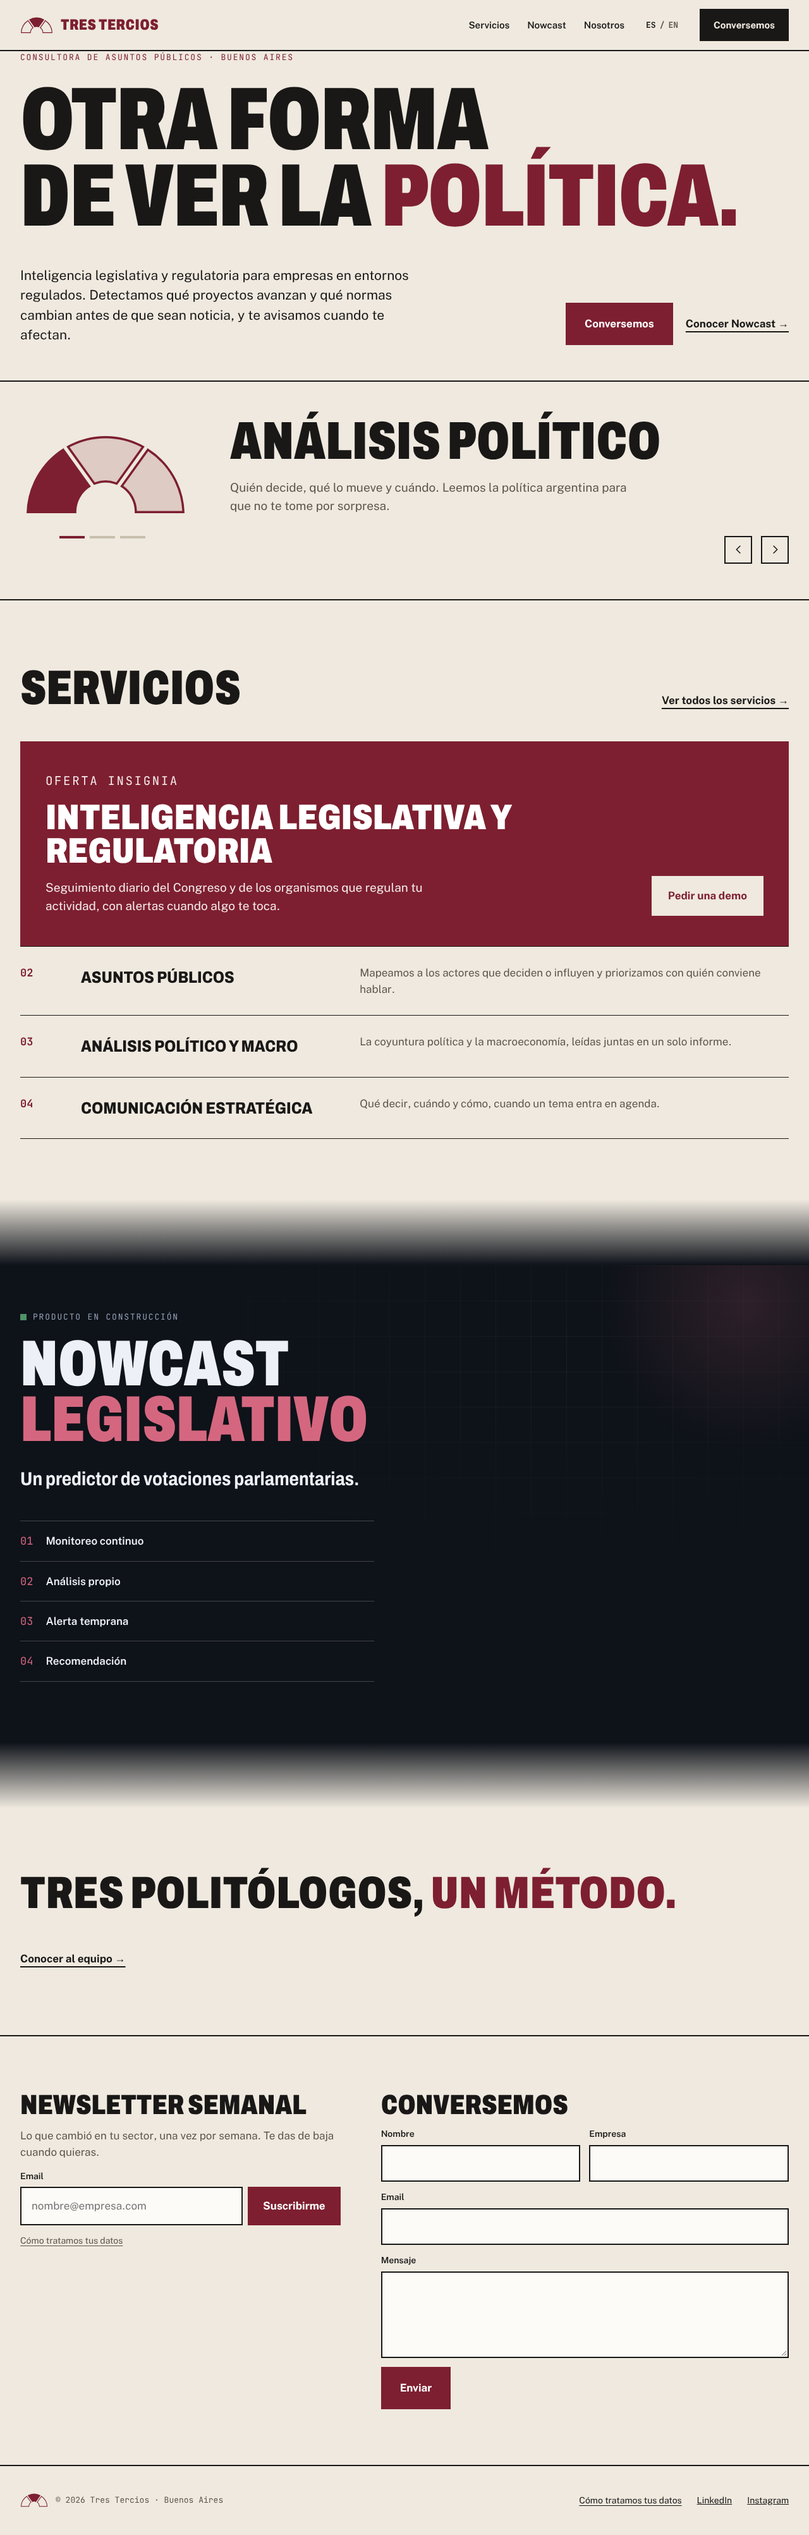
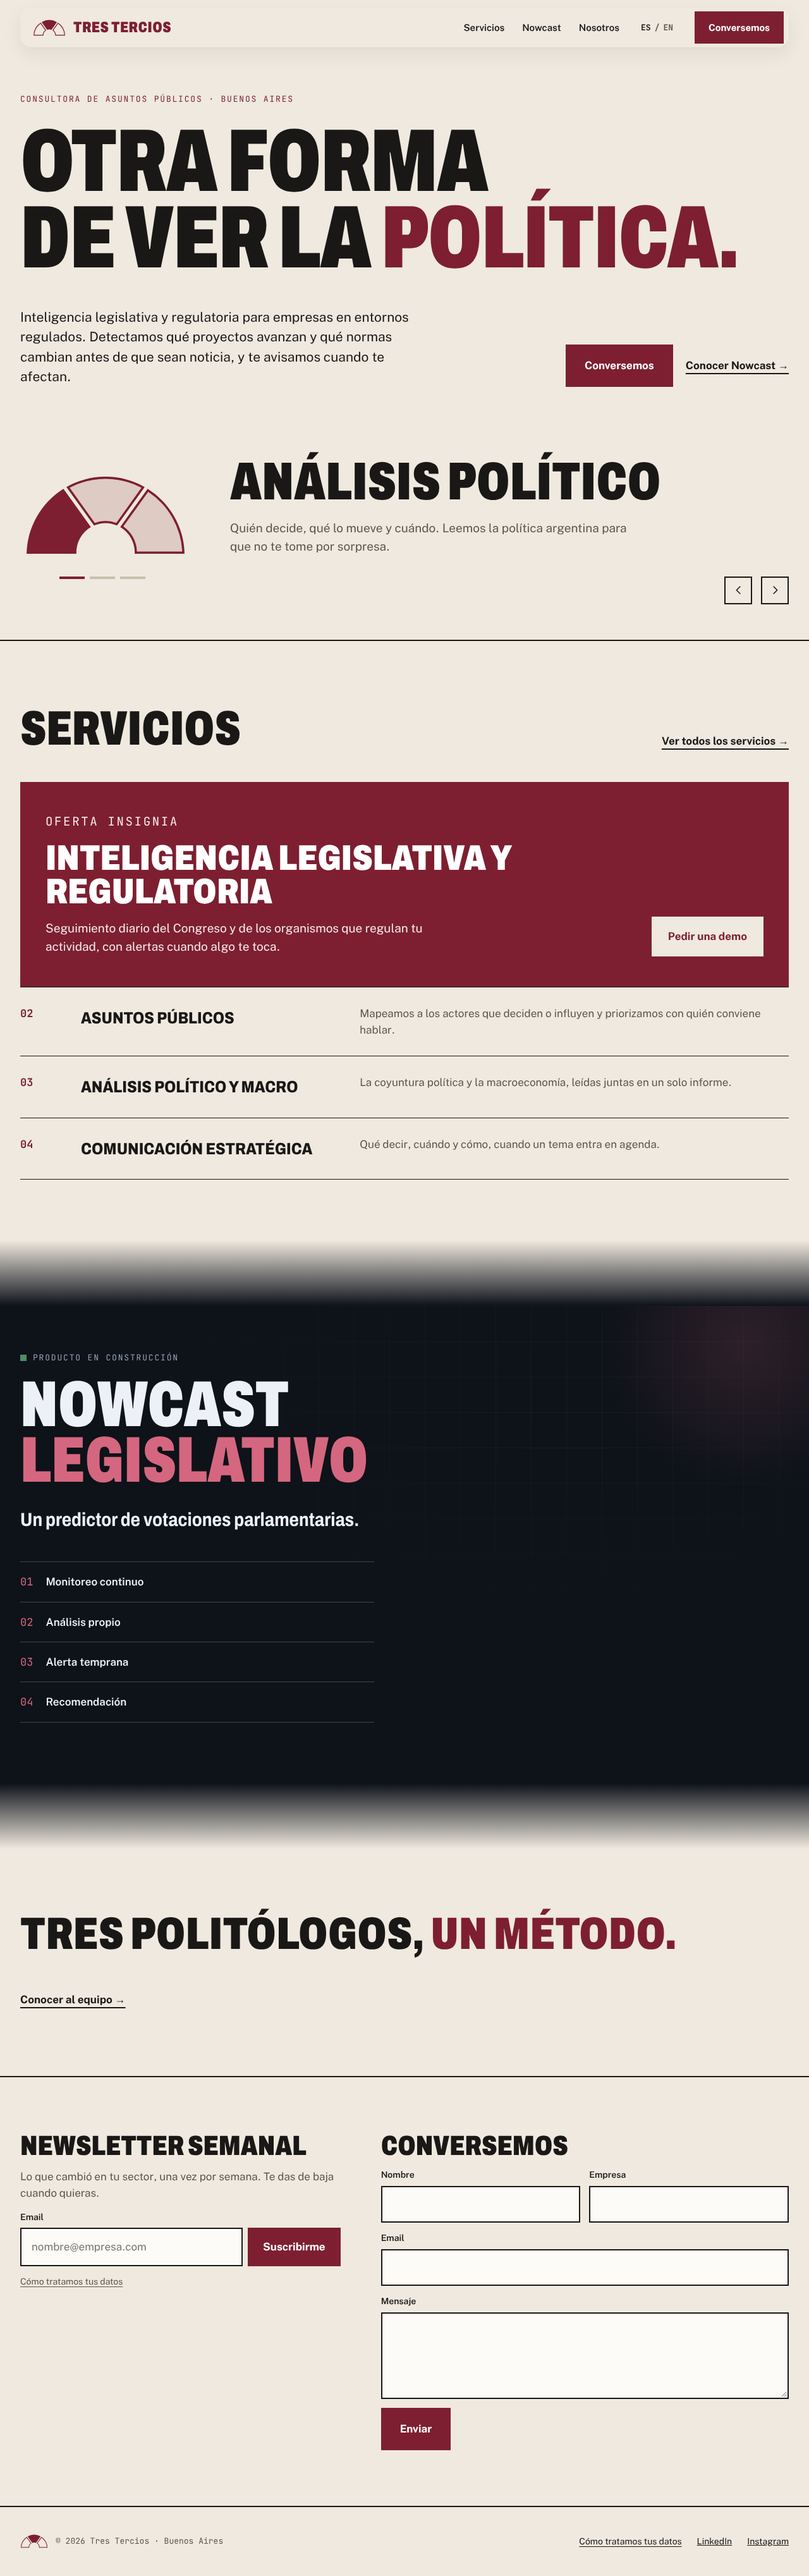
Home: navegación fija con puntas redondeadas y Conversemos en bordó; sin líneas negras sobre el carrusel ni bajo la barra
Claude-Session: https://claude.ai/code/session_01JqyG6VXhNUZhR4n71w7gic

diff --git a/_diseno/maquetas/01-home/maqueta.html b/_diseno/maquetas/01-home/maqueta.html
@@ -545,14 +545,14 @@ input,textarea,button{font:inherit}
 .d1{animation-delay:100ms}.d2{animation-delay:200ms}.d3{animation-delay:300ms}
 
 /* Navegación */
-header{border-bottom:2px solid var(--tinta);background:var(--arena);position:relative;z-index:5}
-.nav{display:flex;flex-wrap:wrap;align-items:center;justify-content:space-between;gap:16px 32px;padding-block:14px}
+header{position:sticky;top:0;z-index:50;padding-top:12px}
+.nav{display:flex;flex-wrap:wrap;align-items:center;justify-content:space-between;gap:0 32px;padding:6px 8px 6px 20px;background:rgba(239,233,223,.94);-webkit-backdrop-filter:blur(12px);backdrop-filter:blur(12px);border-radius:18px;box-shadow:0 1px 2px rgba(25,24,23,.04),0 10px 30px rgba(25,24,23,.07)}
 .marca{display:flex;align-items:center;gap:12px;text-decoration:none;color:var(--bordo);min-height:44px}
 .marca span{font-family:var(--display);font-stretch:75%;font-weight:900;font-size:24px;letter-spacing:.02em;text-transform:uppercase}
 .nav-links{display:flex;flex-wrap:wrap;align-items:center;gap:4px 28px;font-weight:600;font-size:15px}
 .nav-links a{color:var(--tinta);text-decoration:none;padding:12px 0}
 .nav-links a:hover{color:var(--bordo)}
-.nav-links a.btn{color:var(--arena);padding:12px 20px}
+.nav-links a.btn{color:#fff;padding:12px 20px}
 .idioma{font-family:var(--mono);font-size:13px;color:var(--muted);display:inline-flex;align-items:center}
 .idioma button{border:0;background:transparent;color:var(--muted);padding:12px 6px;cursor:pointer;font-family:var(--mono);font-size:13px}
 .idioma button[aria-pressed="true"]{color:var(--tinta);font-weight:700}
@@ -566,7 +566,7 @@ header{border-bottom:2px solid var(--tinta);background:var(--arena);position:rel
 
 /* Hero */
 .hero-fondo{position:relative;overflow:hidden}
-.sin-agua .hero{position:relative;padding-top:72px}
+.hero{padding-top:72px}
 .hero h1{margin:28px 0 0;font-family:var(--display);font-stretch:70%;font-weight:900;font-size:clamp(56px,11vw,176px);line-height:.86;letter-spacing:-.01em;text-transform:uppercase}
 .hero h1 .bd{color:var(--bordo)}
 .hero-pie{display:flex;flex-wrap:wrap;gap:32px 64px;align-items:flex-end;justify-content:space-between;margin-top:48px;padding-bottom:56px}
@@ -574,7 +574,7 @@ header{border-bottom:2px solid var(--tinta);background:var(--arena);position:rel
 .hero-acciones{display:flex;flex-wrap:wrap;gap:8px 20px;align-items:center}
 
 /* Tres tercios: el logo cambia con la flecha; titular y una bajada corta */
-.metodo{border-top:2px solid var(--tinta);border-bottom:2px solid var(--tinta)}
+.metodo{border-bottom:2px solid var(--tinta)}
 .metodo .wrap{display:flex;flex-wrap:wrap;align-items:center;gap:32px 72px;padding-block:56px}
 .metodo-logo{flex:0 0 auto;width:min(260px,40vw);color:var(--bordo)}
 .metodo-logo svg{width:100%;height:auto;display:block;transition:opacity 220ms var(--ease)}
@@ -683,15 +683,18 @@ dialog::backdrop{background:rgba(25,24,23,.55)}
 .modal-x:hover{background:var(--bordo);color:#fff;border-color:var(--bordo)}
 
 @media (max-width:860px){
+  .nav{gap:0 12px}
   .menu-btn{display:inline-flex}
   .nav-links{display:none;flex-basis:100%;flex-direction:column;align-items:stretch;gap:0;padding-bottom:8px}
   .nav.abierto .nav-links{display:flex}
   .nav-links a{padding:14px 0;border-top:1px solid var(--tinta);font-size:17px}
   .nav-links .idioma{padding:6px 0;border-top:1px solid var(--tinta)}
   .nav-links a.btn{margin-top:12px;text-align:center;border:0;padding:16px 20px}
+  .nav-links a:first-child{border-top:0}
     .metodo .wrap{gap:24px 40px}
 }
 @media (max-width:600px){
+  .marca{gap:8px}.marca span{font-size:19px}.marca svg{width:44px}
   .wrap{padding-inline:20px}
   .hero{padding-top:48px}
   .hero-pie p{font-size:19px}
@@ -748,7 +751,8 @@ dialog::backdrop{background:rgba(25,24,23,.55)}
 </svg>
 
 <header>
-<nav class="wrap nav" aria-label="Principal">
+<div class="wrap">
+<nav class="nav" aria-label="Principal">
   <a class="marca" href="#top" aria-label="Tres Tercios, inicio">
     <svg class="logo" width="52" height="28" aria-hidden="true"><use href="#logo-reducido"/></svg>
     <span>Tres Tercios</span>
@@ -759,9 +763,10 @@ dialog::backdrop{background:rgba(25,24,23,.55)}
     <a href="../03-nowcast-legislativo/maqueta.html">Nowcast</a>
     <a href="../04-nosotros/maqueta.html" data-i18n="nav.nosotros">Nosotros</a>
     <span class="idioma" role="group" aria-label="Idioma / Language"><button id="btn-es" type="button" aria-pressed="true" onclick="setLang('es')">ES</button>/<button id="btn-en" type="button" aria-pressed="false" lang="en" onclick="setLang('en')">EN</button></span>
-    <a class="btn btn-tinta" href="../05-contacto/maqueta.html" data-i18n="nav.cta">Conversemos</a>
+    <a class="btn btn-bordo" href="../05-contacto/maqueta.html" data-i18n="nav.cta">Conversemos</a>
   </div>
 </nav>
+</div>
 </header>
 
 <main id="top">

diff --git a/index.html b/index.html
@@ -92,14 +92,14 @@ input,textarea,button{font:inherit}
 .d1{animation-delay:100ms}.d2{animation-delay:200ms}.d3{animation-delay:300ms}
 
 /* Navegación */
-header{border-bottom:2px solid var(--tinta);background:var(--arena);position:relative;z-index:5}
-.nav{display:flex;flex-wrap:wrap;align-items:center;justify-content:space-between;gap:16px 32px;padding-block:14px}
+header{position:sticky;top:0;z-index:50;padding-top:12px}
+.nav{display:flex;flex-wrap:wrap;align-items:center;justify-content:space-between;gap:0 32px;padding:6px 8px 6px 20px;background:rgba(239,233,223,.94);-webkit-backdrop-filter:blur(12px);backdrop-filter:blur(12px);border-radius:18px;box-shadow:0 1px 2px rgba(25,24,23,.04),0 10px 30px rgba(25,24,23,.07)}
 .marca{display:flex;align-items:center;gap:12px;text-decoration:none;color:var(--bordo);min-height:44px}
 .marca span{font-family:var(--display);font-stretch:75%;font-weight:900;font-size:24px;letter-spacing:.02em;text-transform:uppercase}
 .nav-links{display:flex;flex-wrap:wrap;align-items:center;gap:4px 28px;font-weight:600;font-size:15px}
 .nav-links a{color:var(--tinta);text-decoration:none;padding:12px 0}
 .nav-links a:hover{color:var(--bordo)}
-.nav-links a.btn{color:var(--arena);padding:12px 20px}
+.nav-links a.btn{color:#fff;padding:12px 20px}
 .idioma{font-family:var(--mono);font-size:13px;color:var(--muted);display:inline-flex;align-items:center}
 .idioma button{border:0;background:transparent;color:var(--muted);padding:12px 6px;cursor:pointer;font-family:var(--mono);font-size:13px}
 .idioma button[aria-pressed="true"]{color:var(--tinta);font-weight:700}
@@ -113,7 +113,7 @@ header{border-bottom:2px solid var(--tinta);background:var(--arena);position:rel
 
 /* Hero */
 .hero-fondo{position:relative;overflow:hidden}
-.sin-agua .hero{position:relative;padding-top:72px}
+.hero{padding-top:72px}
 .hero h1{margin:28px 0 0;font-family:var(--display);font-stretch:70%;font-weight:900;font-size:clamp(56px,11vw,176px);line-height:.86;letter-spacing:-.01em;text-transform:uppercase}
 .hero h1 .bd{color:var(--bordo)}
 .hero-pie{display:flex;flex-wrap:wrap;gap:32px 64px;align-items:flex-end;justify-content:space-between;margin-top:48px;padding-bottom:56px}
@@ -121,7 +121,7 @@ header{border-bottom:2px solid var(--tinta);background:var(--arena);position:rel
 .hero-acciones{display:flex;flex-wrap:wrap;gap:8px 20px;align-items:center}
 
 /* Tres tercios: el logo cambia con la flecha; titular y una bajada corta */
-.metodo{border-top:2px solid var(--tinta);border-bottom:2px solid var(--tinta)}
+.metodo{border-bottom:2px solid var(--tinta)}
 .metodo .wrap{display:flex;flex-wrap:wrap;align-items:center;gap:32px 72px;padding-block:56px}
 .metodo-logo{flex:0 0 auto;width:min(260px,40vw);color:var(--bordo)}
 .metodo-logo svg{width:100%;height:auto;display:block;transition:opacity 220ms var(--ease)}
@@ -230,15 +230,18 @@ dialog::backdrop{background:rgba(25,24,23,.55)}
 .modal-x:hover{background:var(--bordo);color:#fff;border-color:var(--bordo)}
 
 @media (max-width:860px){
+  .nav{gap:0 12px}
   .menu-btn{display:inline-flex}
   .nav-links{display:none;flex-basis:100%;flex-direction:column;align-items:stretch;gap:0;padding-bottom:8px}
   .nav.abierto .nav-links{display:flex}
   .nav-links a{padding:14px 0;border-top:1px solid var(--tinta);font-size:17px}
   .nav-links .idioma{padding:6px 0;border-top:1px solid var(--tinta)}
   .nav-links a.btn{margin-top:12px;text-align:center;border:0;padding:16px 20px}
+  .nav-links a:first-child{border-top:0}
     .metodo .wrap{gap:24px 40px}
 }
 @media (max-width:600px){
+  .marca{gap:8px}.marca span{font-size:19px}.marca svg{width:44px}
   .wrap{padding-inline:20px}
   .hero{padding-top:48px}
   .hero-pie p{font-size:19px}
@@ -295,7 +298,8 @@ dialog::backdrop{background:rgba(25,24,23,.55)}
 </svg>
 
 <header>
-<nav class="wrap nav" aria-label="Principal">
+<div class="wrap">
+<nav class="nav" aria-label="Principal">
   <a class="marca" href="#top" aria-label="Tres Tercios, inicio">
     <svg class="logo" width="52" height="28" aria-hidden="true"><use href="#logo-reducido"/></svg>
     <span>Tres Tercios</span>
@@ -306,9 +310,10 @@ dialog::backdrop{background:rgba(25,24,23,.55)}
     <a href="nowcast-legislativo.html">Nowcast</a>
     <a href="nosotros.html" data-i18n="nav.nosotros">Nosotros</a>
     <span class="idioma" role="group" aria-label="Idioma / Language"><button id="btn-es" type="button" aria-pressed="true" onclick="setLang('es')">ES</button>/<button id="btn-en" type="button" aria-pressed="false" lang="en" onclick="setLang('en')">EN</button></span>
-    <a class="btn btn-tinta" href="contacto.html" data-i18n="nav.cta">Conversemos</a>
+    <a class="btn btn-bordo" href="contacto.html" data-i18n="nav.cta">Conversemos</a>
   </div>
 </nav>
+</div>
 </header>
 
 <main id="top">
